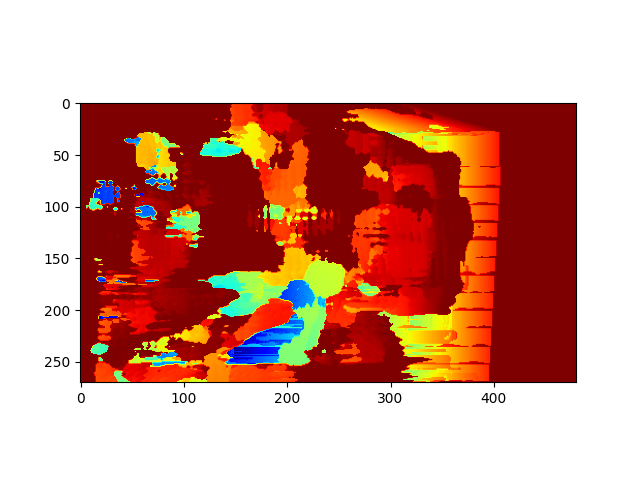
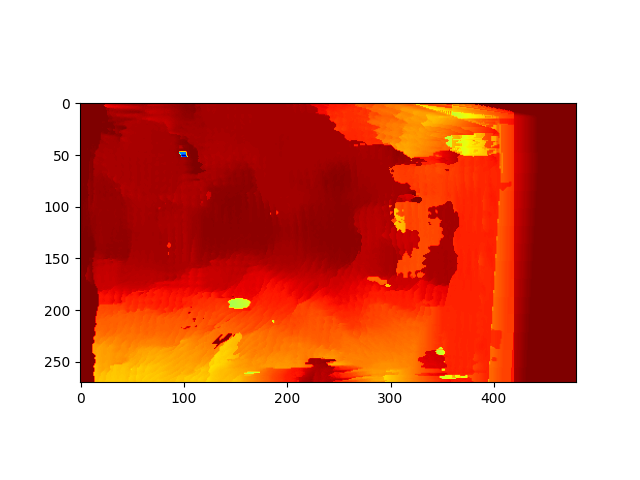
descriptors1 and descriptors2 in the provided dsift_descriptor.npz are flipped

diff --git a/hw5/hw5.py b/hw5/hw5.py
@@ -344,5 +344,5 @@ if __name__ == '__main__':
     img_right_w = cv2.cvtColor(img_right_w, cv2.COLOR_BGR2GRAY)
     data = np.load('./dsift_descriptor.npz')
     desp1, desp2 = data['descriptors1'], data['descriptors2']
-    disparity = dense_match(img_left_w, img_right_w, desp1, desp2)
+    disparity = dense_match(img_left_w, img_right_w, desp2, desp1)
     visualize_disparity_map(disparity)
